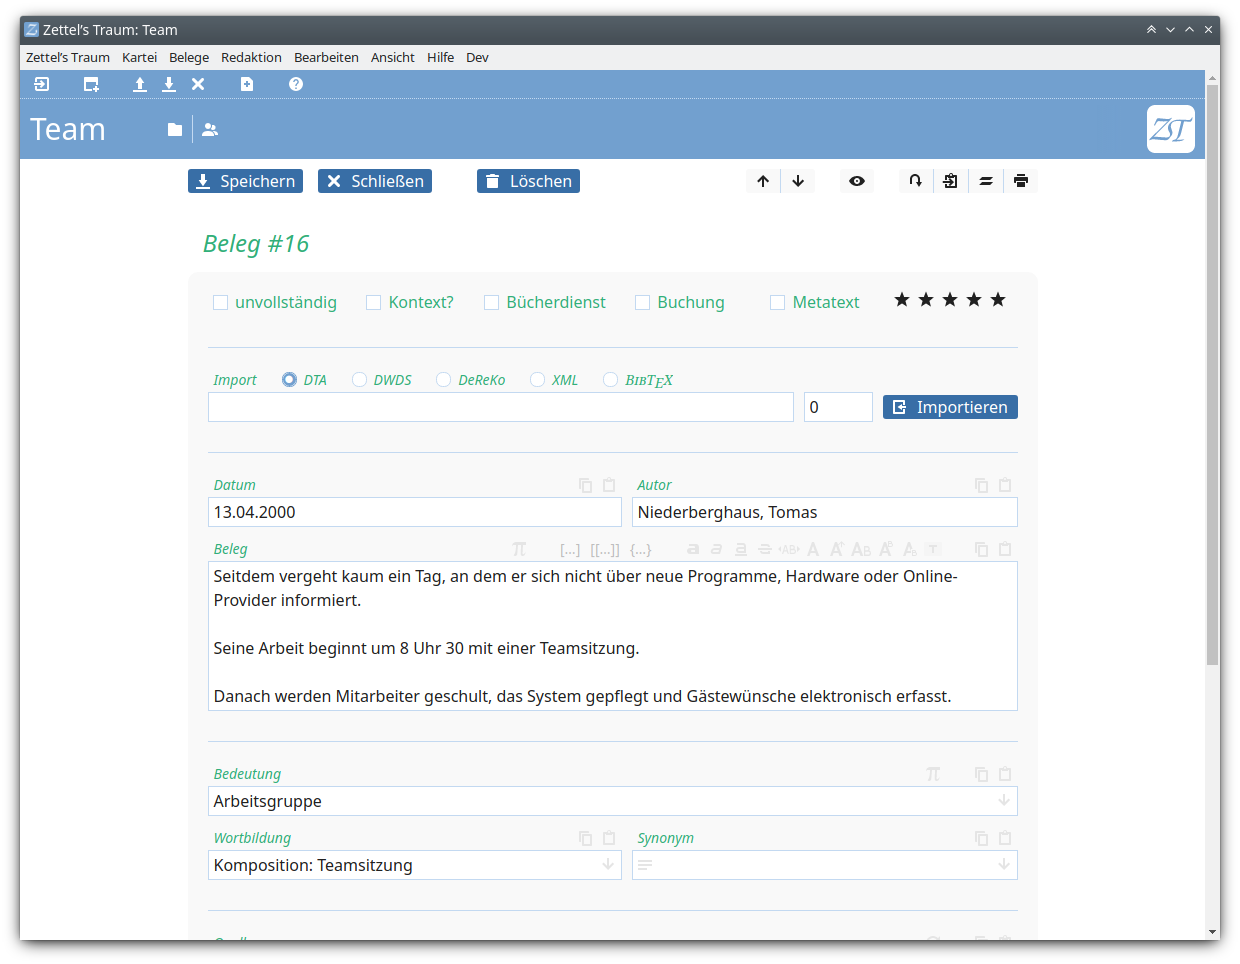
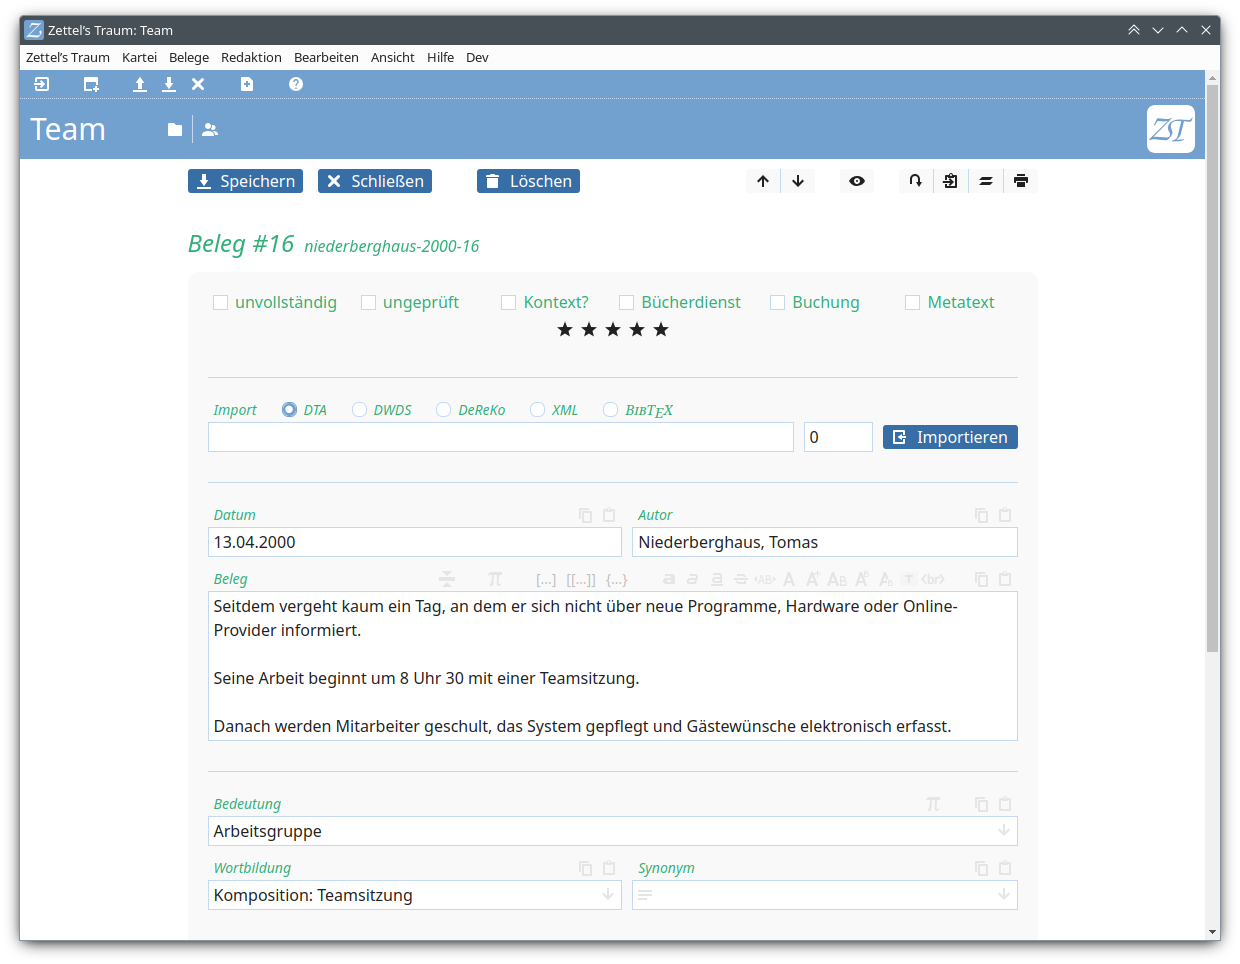
Change: in Kopf der Karteikarte wird neben der Belegnummer nun auch die Belegreferenz angezeigt

diff --git a/js/app/beleg.js b/js/app/beleg.js
@@ -673,6 +673,23 @@ let beleg = {
 			beleg.geaendertBd = false;
 			asterisk.classList.add("aus");
 		}
+		if (beleg.id_karte > -1) {
+			// Diese Funktion wird beim Schließen der Kartei aufgerufen. Wenn zuvor keine
+			// Karteikarte offen war, führt der Aufruf von belegReferenz() zu einem Fehler,
+			// der das Schließen unmöglich macht.
+			beleg.belegReferenz();
+		}
+	},
+	// frischt die Beleg-Referenz in der Belegüberschrift auf;
+	// Format: Name-Jahr-Belegnummer
+	belegReferenz () {
+		let ref = xml.belegId({ data: beleg.data, id: beleg.id_karte });
+		if (/--[0-9]+$/.test(ref)) {
+			// die Jahresangabe fehlt => keine Referenz drucken
+			ref = "";
+		}
+		const cont = document.querySelector("#beleg-referenz");
+		cont.textContent = ref;
 	},
 	// Speichern oder DTAImport starten (wenn Fokus auf einem Input-Element)
 	//   input = Element

diff --git a/win/changelog.html b/win/changelog.html
@@ -62,6 +62,8 @@
 
 				<ul>
 					<li><a href="#karteikarte" class="link-handbuch">Karteikarte</a>: Die Karteikartenüberschrift mit der Belegnummer bleibt nun auch beim Scrollen sichtbar.</li>
+
+					<li>Karteikarte: In der Karteikartenüberschrift wird nun neben der Belegnummer auch die Beleg-Referenz angezeigt. (Diese Referenz wird für den XML-Export genutzt, um Belege eindeutig referenzieren zu können.)</li>
 				</ul>
 
 				<h3>Updates</h3>

diff --git a/index.html b/index.html
@@ -214,7 +214,7 @@
 					></div
 				></div
 			></header
-			><h2 id="beleg-titel"> <span id="beleg-geaendert" class="aus">*</span></h2
+			><h2 id="beleg-titel"> <span id="beleg-geaendert" class="aus">*</span><span id="beleg-referenz"></span></h2
 			><table>
 				<tr class="beleg-form">
 					<td colspan="2" class="check"><div>

diff --git a/css/app/beleg.css b/css/app/beleg.css
@@ -82,6 +82,12 @@
 	margin-left: 10px;
 }
 
+#beleg-referenz {
+	margin-left: 10px;
+	font-size: 16px;
+	line-height: 24px;
+}
+
 #beleg th {
 	position: relative;
 	padding: 10px 35px 0 11px;
